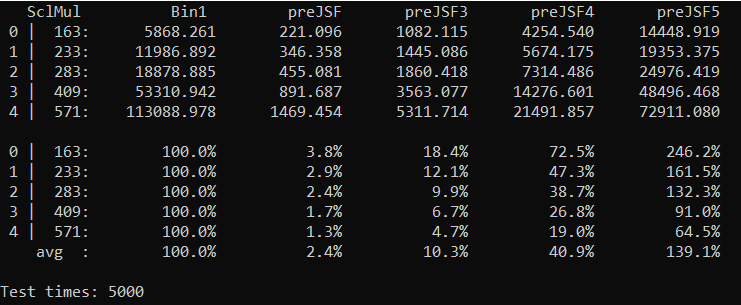
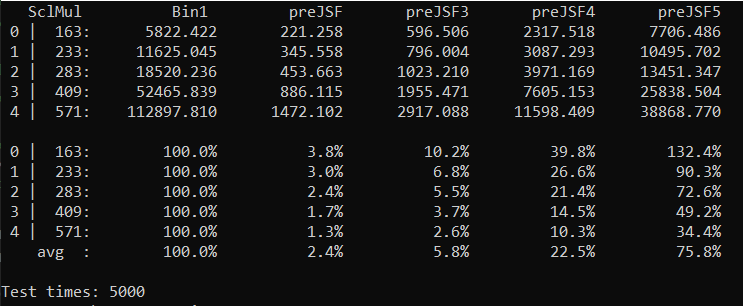
update result preMul

diff --git a/Paper/main.cpp b/Paper/main.cpp
@@ -44,15 +44,15 @@ int main()
 		//test_bin3(Rng, P, n, msg);
 		//test_bin_n(3, Rng, P, n, msg);
 		//test_dJSF(3, Rng, P, n, msg);
-		compares(Rng, P, n, res[i]);
-		//compare_prepowmodJSFs(Rng, P, n, res[i]);
+		//compares(Rng, P, n, res[i]);
+		compare_prepowmodJSFs(Rng, P, n, res[i]);
 		//compare_Doub_Add_Neg(Rng, P, res[i], m[i]);
 	}
 	//cout << endl << "without Shamir decomposition" << endl;
 	////cout << setw(19) << "" << "n=1           n=2           n=3           n=3           JSF3        lib(n=3)\n";
-	cout << setw(19) << "SclMul          " <<   "Bin1          JSF2          JSF3          JSF4          JSF5          JSF1\n";
-	printcompares(res, m);
-	//printcompares_JSFs(res, m);
+	//cout << setw(19) << "SclMul          " <<   "Bin1          JSF2          JSF3          JSF4          JSF5          JSF1\n";
+	//printcompares(res, m);
+	printcompares_JSFs(res, m);
 	//print_A_D_N(res, m);
 	
 	//cout << endl << "\a\a\a\a\a\a\a\a\a\a\a" << endl;

diff --git a/Paper/option_dJSF.cpp b/Paper/option_dJSF.cpp
@@ -59,7 +59,7 @@ DWORD GendJSF(int d, big *r, char **dJSF)
 	return lenJSF;
 }
 
-void PreMul_dJSF(int d, int len, pepoint *P, pepoint *plist)
+void PreMul_dJSF2(int d, int len, pepoint *P, pepoint *plist)
 {
 	int i, j, k, i0 = len >> 1, upi, downi;
 
@@ -87,7 +87,7 @@ void PreMul_dJSF(int d, int len, pepoint *P, pepoint *plist)
 	}
 }
 
-void PreMul_dJSF2(int d, int len, pepoint *P, pepoint *plist)
+void PreMul_dJSF(int d, int len, pepoint *P, pepoint *plist)
 {
 	int i, j, k, i0 = len >> 1, upi, downi;
 
@@ -125,7 +125,7 @@ void ShamirMul_dJSF(int d, big *k, pepoint *P, pepoint R)
 	for (i = 0; i < d; i++) tmp *= 3;
 
 	idx = I0 = tmp >> 1;
-	PreMul_dJSF2(d, tmp, P, glob_epoints);
+	PreMul_dJSF(d, tmp, P, glob_epoints);
 	lendJSF = GendJSF(d, k, dJSF);
 
 	for (j = 0, tmp = 1; j < d; j++, tmp *= 3) {
